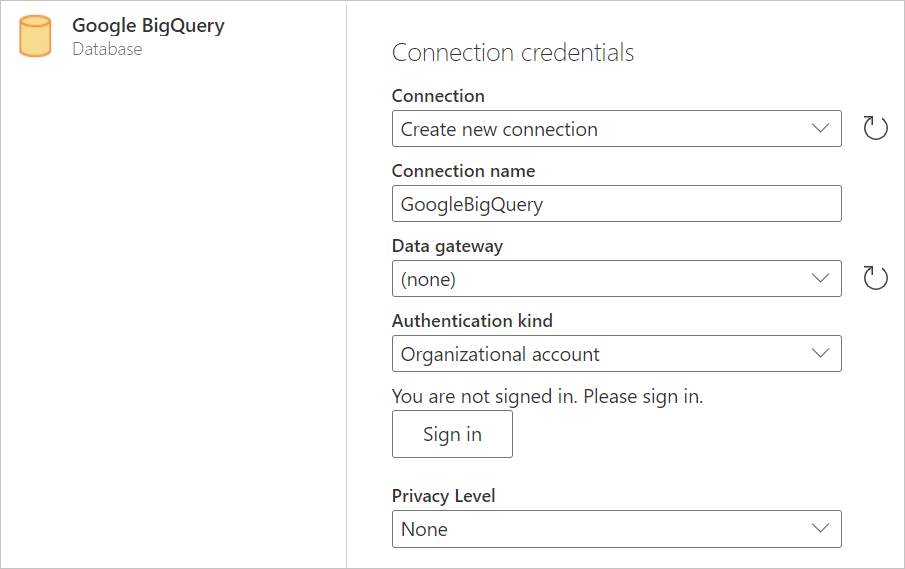
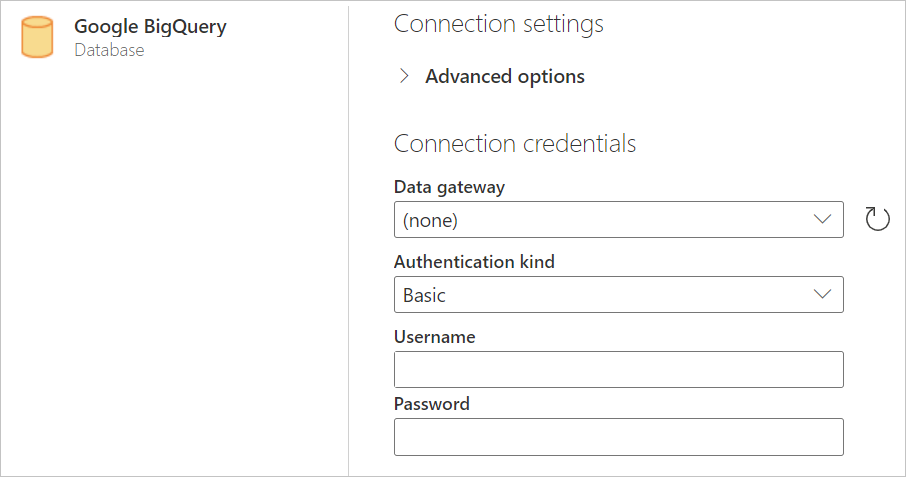
Updated Google Analytics and BigQuery

diff --git a/powerquery-docs/Connectors/GoogleBigQuery.md b/powerquery-docs/Connectors/GoogleBigQuery.md
@@ -4,7 +4,7 @@ description: Provides basic information and prerequisites for the Google BigQuer
 author: bezhan
 ms.service: powerquery
 ms.topic: conceptual
-ms.date: 9/16/2021
+ms.date: 10/7/2021
 ms.author: bezhan
 LocalizationGroup: reference
 ---
@@ -43,21 +43,25 @@ To connect to Google BigQuery from Power Query Desktop, take the following steps
 
     ![Get Data from Google BigQuery.](./media/google-bigquery/GetData.png)
 
-2. The Google BigQuery connector supports connecting through an organizational account or a service account sign-in. In this example, you'll use the organizational account to sign in. Select **Sign In** to continue.
+2. If you want to use any advance options, select **Advanced options**. Otherwise, select **OK** to continue. More information: [Connect using advanced options](#connect-using-advanced-options)
+
+    ![Image showing initial dialog box with the advanced options selection](./media/google-bigquery/sign-in-advanced-options.png)
+
+3. The Google BigQuery connector supports connecting through an organizational account or a service account sign-in. In this example, you'll use the organizational account to sign in. Select **Sign In** to continue.
 
     ![Sign in to Google BigQuery.](./media/google-bigquery/SignIn.png)
 
     You can also sign in using a Google service account. In this case, select **Service Account Login** and enter your service account email and your service account JSON key file contents. Then select **Connect**.
 
-3. A **Sign in with Google** dialog appears. Select your Google account and approve connecting to Power BI Desktop.
+4. A **Sign in with Google** dialog appears. Select your Google account and approve connecting to Power BI Desktop.
 
     ![Sign in to Google.](./media/google-bigquery/SignIntoGoogle.png)
 
-4. Once signed in, select **Connect** to continue.
+5. Once signed in, select **Connect** to continue.
 
     ![Connect to Google BigQuery Data.](./media/google-bigquery/ConnectToGoogleBigQueryData.png)
 
-5. Once you successfully connect, a **Navigator** window appears and displays the data available on the server. Select your data in the navigator. Then select either **Transform Data** to transform the data in Power Query or **Load** to load the data in Power BI Desktop.
+6. Once you successfully connect, a **Navigator** window appears and displays the data available on the server. Select your data in the navigator. Then select either **Transform Data** to transform the data in Power Query or **Load** to load the data in Power BI Desktop.
 
     ![Image of Power Query navigator loading Google BigQuery data to desktop app.](./media/google-bigquery/navigator-bigquery.png)
 
@@ -79,13 +83,35 @@ To connect to Google BigQuery from Power Query Online, take the following steps:
 
     ![Image of Google sign in dialog.](./media/google-bigquery/SignIntoGoogle.png)
 
-4. Once signed in, select **Next** to continue.
+4. If you want to use any advance options, select **Advanced options**. More information: [Connect using advanced options](#connect-using-advanced-options)
+
+5. Once signed in, select **Next** to continue.
 
     ![Image of the user successfully signed in.](./media/google-bigquery/connect-online-to-data.png)
 
-5. Once you successfully connect, a **Navigator** window appears and displays the data available on the server. Select your data in the navigator. Then select **Next** to transform the data in Power Query.
+6. Once you successfully connect, a **Navigator** window appears and displays the data available on the server. Select your data in the navigator. Then select **Next** to transform the data in Power Query.
 
     ![Image of Power Query navigator loading Google BigQuery data to online app.](./media/google-bigquery/navigator-bigquery-online.png)
+
+## Connect using advanced options
+
+Both Power Query Desktop and Power Query Online provide a set of advanced options that you can add to your query if needed.
+
+![Display of advanced options available in Power Query Desktop.](./media/google-bigquery/advanced-options.png)
+
+The following table lists all of the advanced options you can set in Power Query Desktop and Power Query Online.
+
+| Advanced option | Description |
+| --------------- | ----------- |
+| Billing Project ID | A project against which Power Query will run queries. Permissions and billing are tied to this project. |
+| Use Storage Api | A flag that enables using the [Storage API of Google BigQuery](https://cloud.google.com/bigquery/docs/reference/storage). This option is true by default. However, as of now this option is defunct as Google uses storage API exclusively and changing this flag does not change any behavior. |
+| Connection timeout duration | The standard connection setting (in seconds) that controls how long Power Query waits for a connection to complete. You can change this value if your connection doesn't complete before 15 seconds (the default value.) |
+| Command timeout duration | How long Power Query waits for a query to complete and return results. The default depends on the driver default. You can enter another value in minutes to keep the connection open longer. |
+| Project ID | The project that you want to run native queries on. This option is only available in Power Query Desktop. |
+| SQL statement | For information, go to [Import data from a database using native database query](../native-database-query.md). In this version of native database query functionality, you need to use fully qualified table names in the format `Database.Schema.Table`, for example `SELECT * FROM DEMO_DB.PUBLIC.DEMO_TABLE`. This option is only available in Power Query Desktop. |
+| | |
+
+Once you've selected the advanced options you require, select **OK** in Power Query Desktop or **Next** in Power Query Online to connect to your Google BigQuery data.
 
 ## Limitations and considerations
 

diff --git a/powerquery-docs/Connectors/GoogleAnalytics.md b/powerquery-docs/Connectors/GoogleAnalytics.md
@@ -4,7 +4,7 @@ description: Provides basic information and connection instructions, along with 
 author: DougKlopfenstein
 ms.service: powerquery
 ms.topic: conceptual
-ms.date: 9/16/2021
+ms.date: 10/7/2021
 ms.author: bezhan
 LocalizationGroup: reference
 ---
@@ -27,9 +27,12 @@ LocalizationGroup: reference
 > [!NOTE]
 > Effective July 2021, Google will discontinue support for sign-ins to Google accounts from embedded browser frameworks. Due to this change, you will need to [update](https://powerbi.microsoft.com/downloads/) your Power BI Desktop version to June 2021 to support signing in to Google.
 
+> [!Note]
+>This connector uses V4 of the Google Analytics API.
+
 ## Prerequisites
 
-Before you can sign in to Google Analytics, you must have an Google Analytics account (username/password).
+Before you can sign in to Google Analytics, you must have a Google Analytics account (username/password).
 
 ## Capabilities Supported
 
@@ -43,7 +46,7 @@ To connect to Google Analytics data:
 
    ![Get Data from Google Analytics.](./media/google-analytics/get-ga-data.png)
 
-2. If this is the first time you're getting data through the Google Analytics connector, a third party notice is displayed. Select **Don't warn me again with this connector** if you don't want this message to be displayed again. Then select **Continue**.
+2. If this is the first time you're getting data through the Google Analytics connector, a third-party notice is displayed. Select **Don't warn me again with this connector** if you don't want this message to be displayed again. Then select **Continue**.
 
 3. To sign in to your Google Analytics account, select **Sign in**.
 
@@ -77,7 +80,7 @@ To connect to Google Analytics data:
 
 1. Select **Google Analytics** from the **Power Query - Choose data source** page.
 
-2. From the connection page, enter a connection name and choose an on-premises data gateway if required.
+2. From the connection page, enter a connection name and choose an on-premises data gateway if necessary.
 
    ![Image showing the connection page with a connection name and no gateway selected.](./media/google-analytics/ga-connect.png)
 
@@ -171,7 +174,7 @@ in
 
 You can do one of two things. If you have a **Date** column, you can filter on the Date. This is the easier option. If you don't care about breaking it up by date, you can Group afterwards.
 
-If you don't have a **Date** column, you can manually manipulate the query in the Advanced Editor to add one and filter on it. For example.
+If you don't have a **Date** column, you can manually manipulate the query in the Advanced Editor to add one and filter on it. For example:
 
 ```powerquery-m
    let
